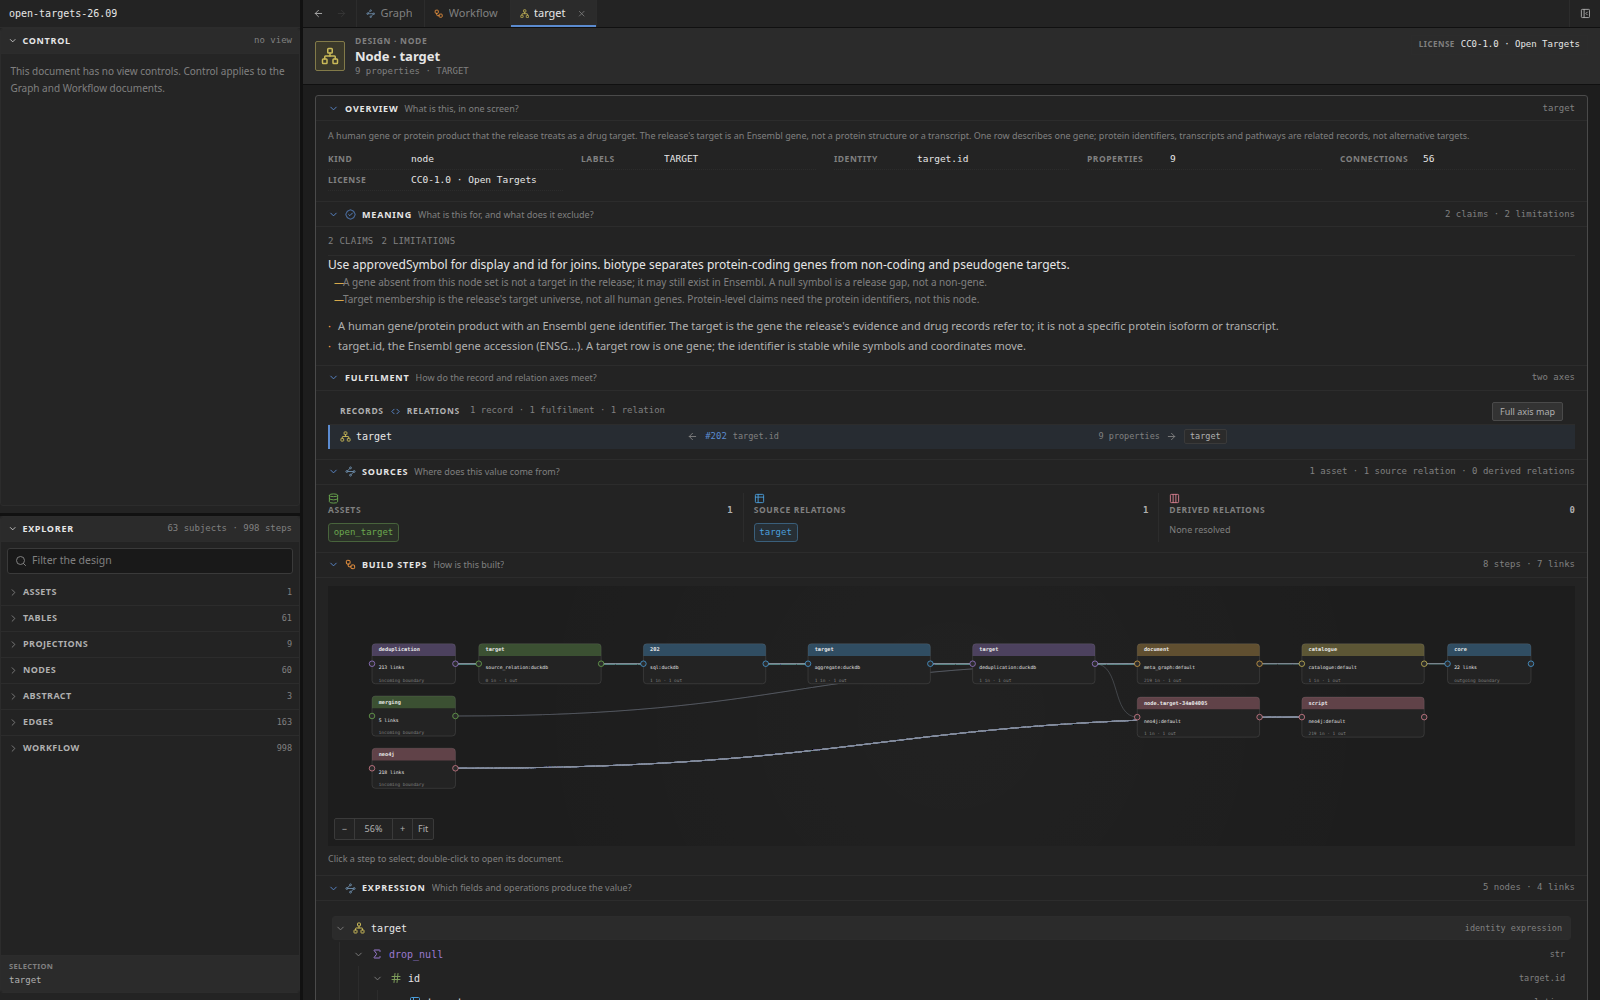
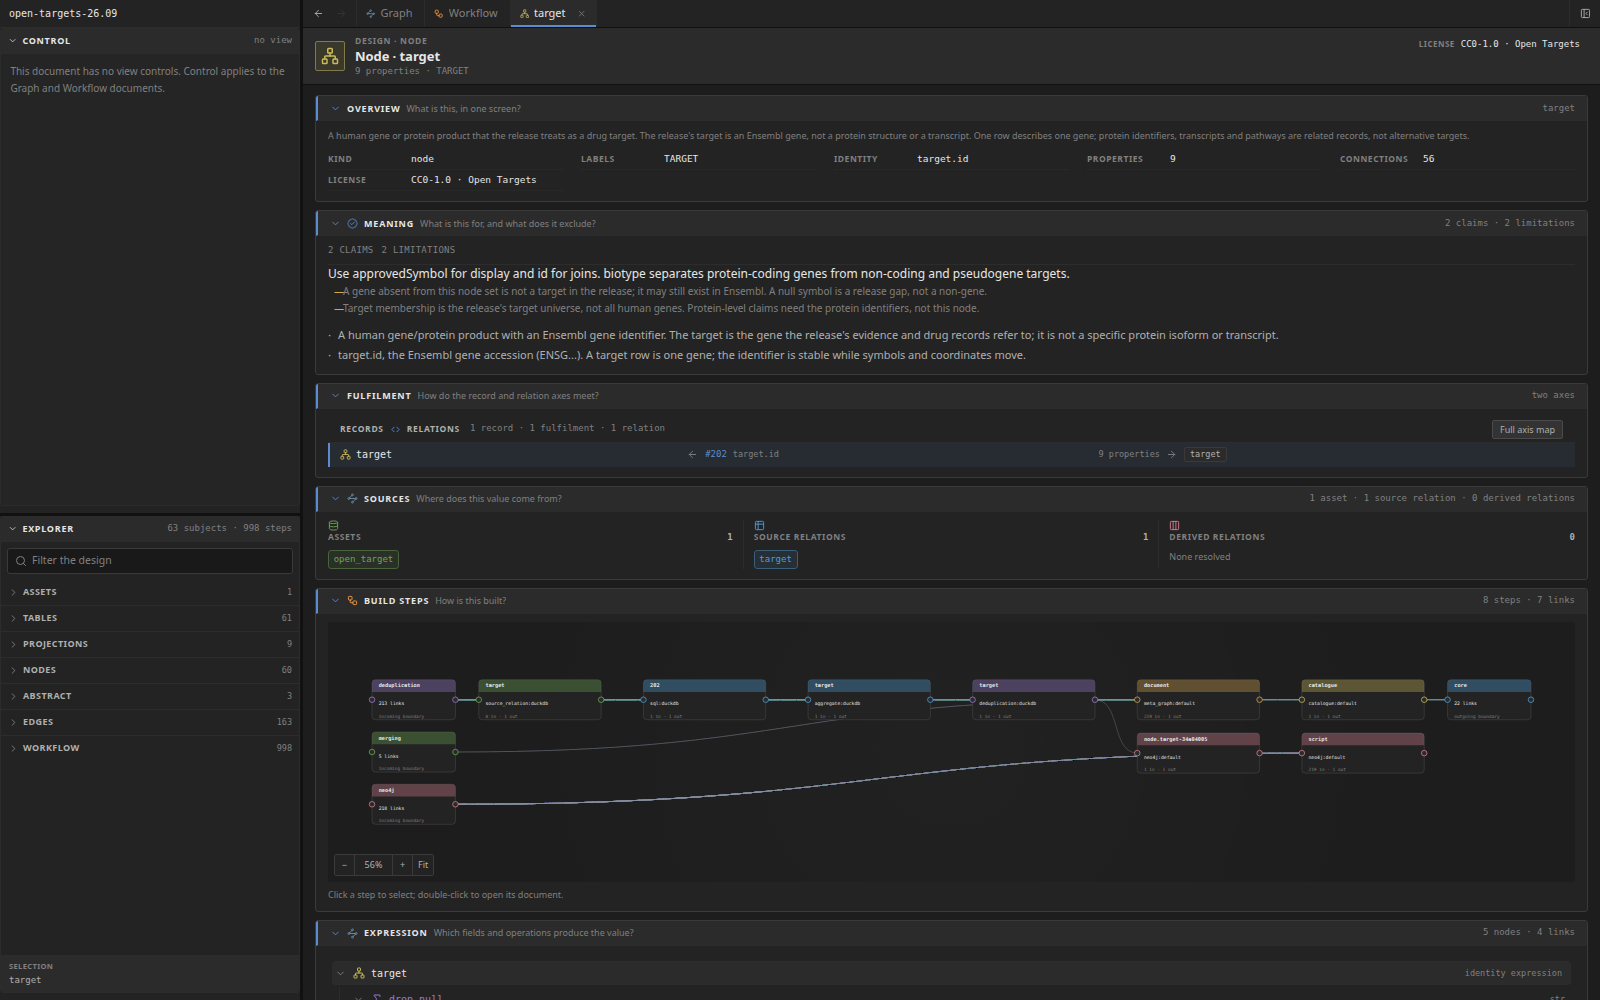
Render each detail section as a card through the shared band frame

diff --git a/viewer/detail/detail.module.css b/viewer/detail/detail.module.css
@@ -152,25 +152,15 @@
   min-width: 0;
   flex: 1;
   flex-direction: column;
-  gap: 0;
+  gap: 8px;
   padding: 10px 12px 26px;
-}
-
-/* One frame holds every section; sections divide inside it, they do not each
-   become a separate card. */
-.bodyCard {
-  min-width: 0;
-  overflow: hidden;
-  border: 1px solid var(--color-line-strong);
-  border-radius: 3px;
-  background-color: var(--color-panel);
 }
 
 .levelBody {
   display: flex;
   min-width: 0;
   flex-direction: column;
-  gap: 0;
+  gap: 8px;
 }
 
 /* ---- Provenance summary ---------------------------------------------- */
@@ -1888,14 +1878,14 @@ button.expressionToggle:hover {
  * body is flat content, never a floating card.
  */
 
+/* The one card frame. Every section renders through DetailBand, so this is
+   the only place a section card outline, radius or surface is declared. */
 .band {
   min-width: 0;
-  border-bottom: 1px solid var(--color-line-soft);
-}
-
-.bodyCard > .band:last-child,
-.bodyCard > .levelBody:last-child > .band:last-child {
-  border-bottom: 0;
+  overflow: hidden;
+  border: 1px solid var(--color-line);
+  border-radius: 3px;
+  background-color: var(--color-panel);
 }
 
 .bandHead {
@@ -1907,13 +1897,18 @@ button.expressionToggle:hover {
   padding: 0 12px;
   border: 0;
   border-bottom: 1px solid var(--color-line-soft);
-  background-color: transparent;
+  border-left: 2px solid transparent;
+  background-color: var(--color-panel-raised);
   color: var(--color-text);
   text-align: left;
 }
 
 .bandHead:hover {
   background-color: var(--color-panel-soft);
+}
+
+.band[data-open="true"] .bandHead {
+  border-left-color: var(--color-accent);
 }
 
 .band[data-open="true"] .bandChevron {

diff --git a/viewer/detail/view/DetailChrome.tsx b/viewer/detail/view/DetailChrome.tsx
@@ -72,9 +72,7 @@ export function DetailDocument({
           </div>
         ) : null}
       </header>
-      <div className={styles.body}>
-        <div className={styles.bodyCard}>{children}</div>
-      </div>
+      <div className={styles.body}>{children}</div>
     </div>
   );
 }
@@ -97,8 +95,10 @@ export interface DetailBandProps {
  * One section of a detail document.
  *
  * The header is structural and shared by every kind: a micro title, the
- * question the section answers, and one count. All sections share one card
- * frame and divide inside it; the body holds content only.
+ * question the section answers, and one count. This component is the one card
+ * frame: every section in every detail view renders through it, so the card
+ * outline, surface and header cannot drift between node, edge, table,
+ * projection or step documents. The body holds content only.
  */
 export function DetailBand({
   title,

diff --git a/viewer/DESIGN_BLENDER.md b/viewer/DESIGN_BLENDER.md
@@ -18,10 +18,11 @@ Reference: Blender 4.x dark theme, not a generic dashboard.
   view's controls, **Explorer** for the whole design.
 - **Area headers** are 25px bands on `panel-raised` with an icon, an uppercase
   micro title, optional counts and right-aligned controls.
-- **Detail sections share one card.** A detail document is one inset `panel`
-  card frame with a 1px outline and 3px radius; sections divide inside it with
-  1px rules and `panel-raised` headers. The frame has no drop shadow. The
-  workbench regions remain flat plates; only the document body is a card.
+- **Detail sections are cards.** A detail document is a stack of inset `panel`
+  cards with a `panel-raised` header, 1px outline, 3px radius and no drop
+  shadow. Every card renders through the one `DetailBand` frame, so the card
+  surface is not reimplemented per detail kind. The workbench regions remain
+  flat plates; only document sections are cards.
 - **Editor tabs** belong to the main area, not the window. They name the
   document, not a global destination.
 - **Side bar** is the function's subject browser and detail controls.

diff --git a/viewer/DETAIL_CONTENT.md b/viewer/DETAIL_CONTENT.md
@@ -91,11 +91,11 @@ purpose, a grain or an identity.
 
 ## Layout
 
-- A document renders one card frame inset 12px from the document edge. Every
-  section lives inside that frame; the sections divide with 1px rules rather
-  than each becoming a separate card. The frame has a 1px outline, a 3px
-  radius and no drop shadow.
-- The header is sticky; the frame scrolls.
+- A document is a stack of section cards inset 12px from the document edge and
+  separated by 8px. Each card has a 1px outline, a 3px radius and no drop
+  shadow. Every card is rendered by the one shared `DetailBand` frame; a detail
+  view does not declare its own card markup or surface.
+- The header is sticky; the cards scroll.
 - The section body is 8px above and 10px below its content; a flush body is
   used for a canvas or a table that owns its own padding.
 - A table shares one `grid-template-columns` between its head and every row.
